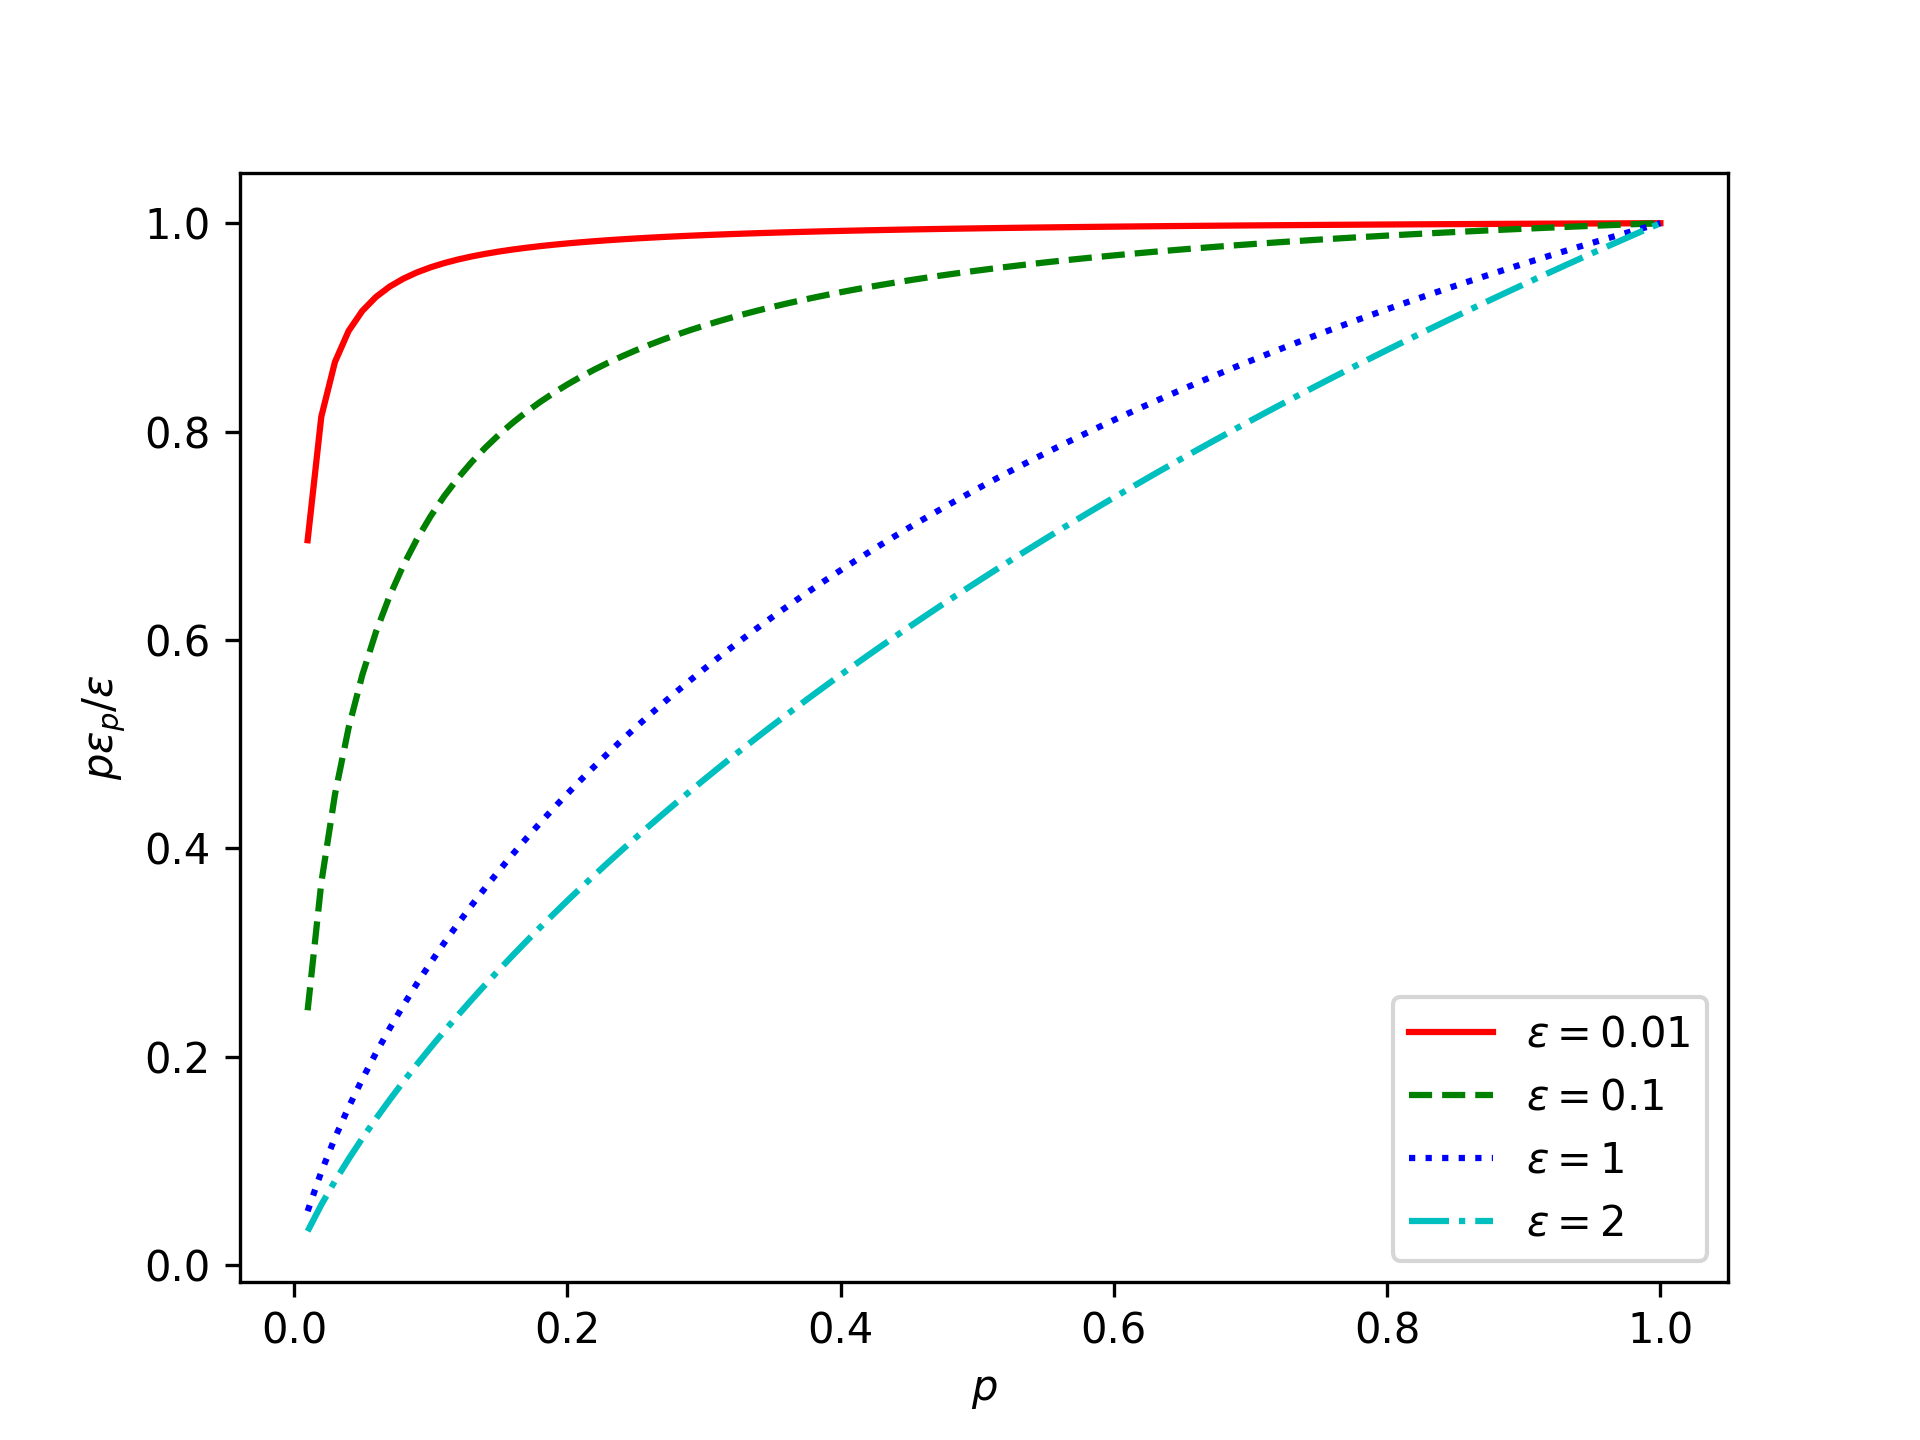
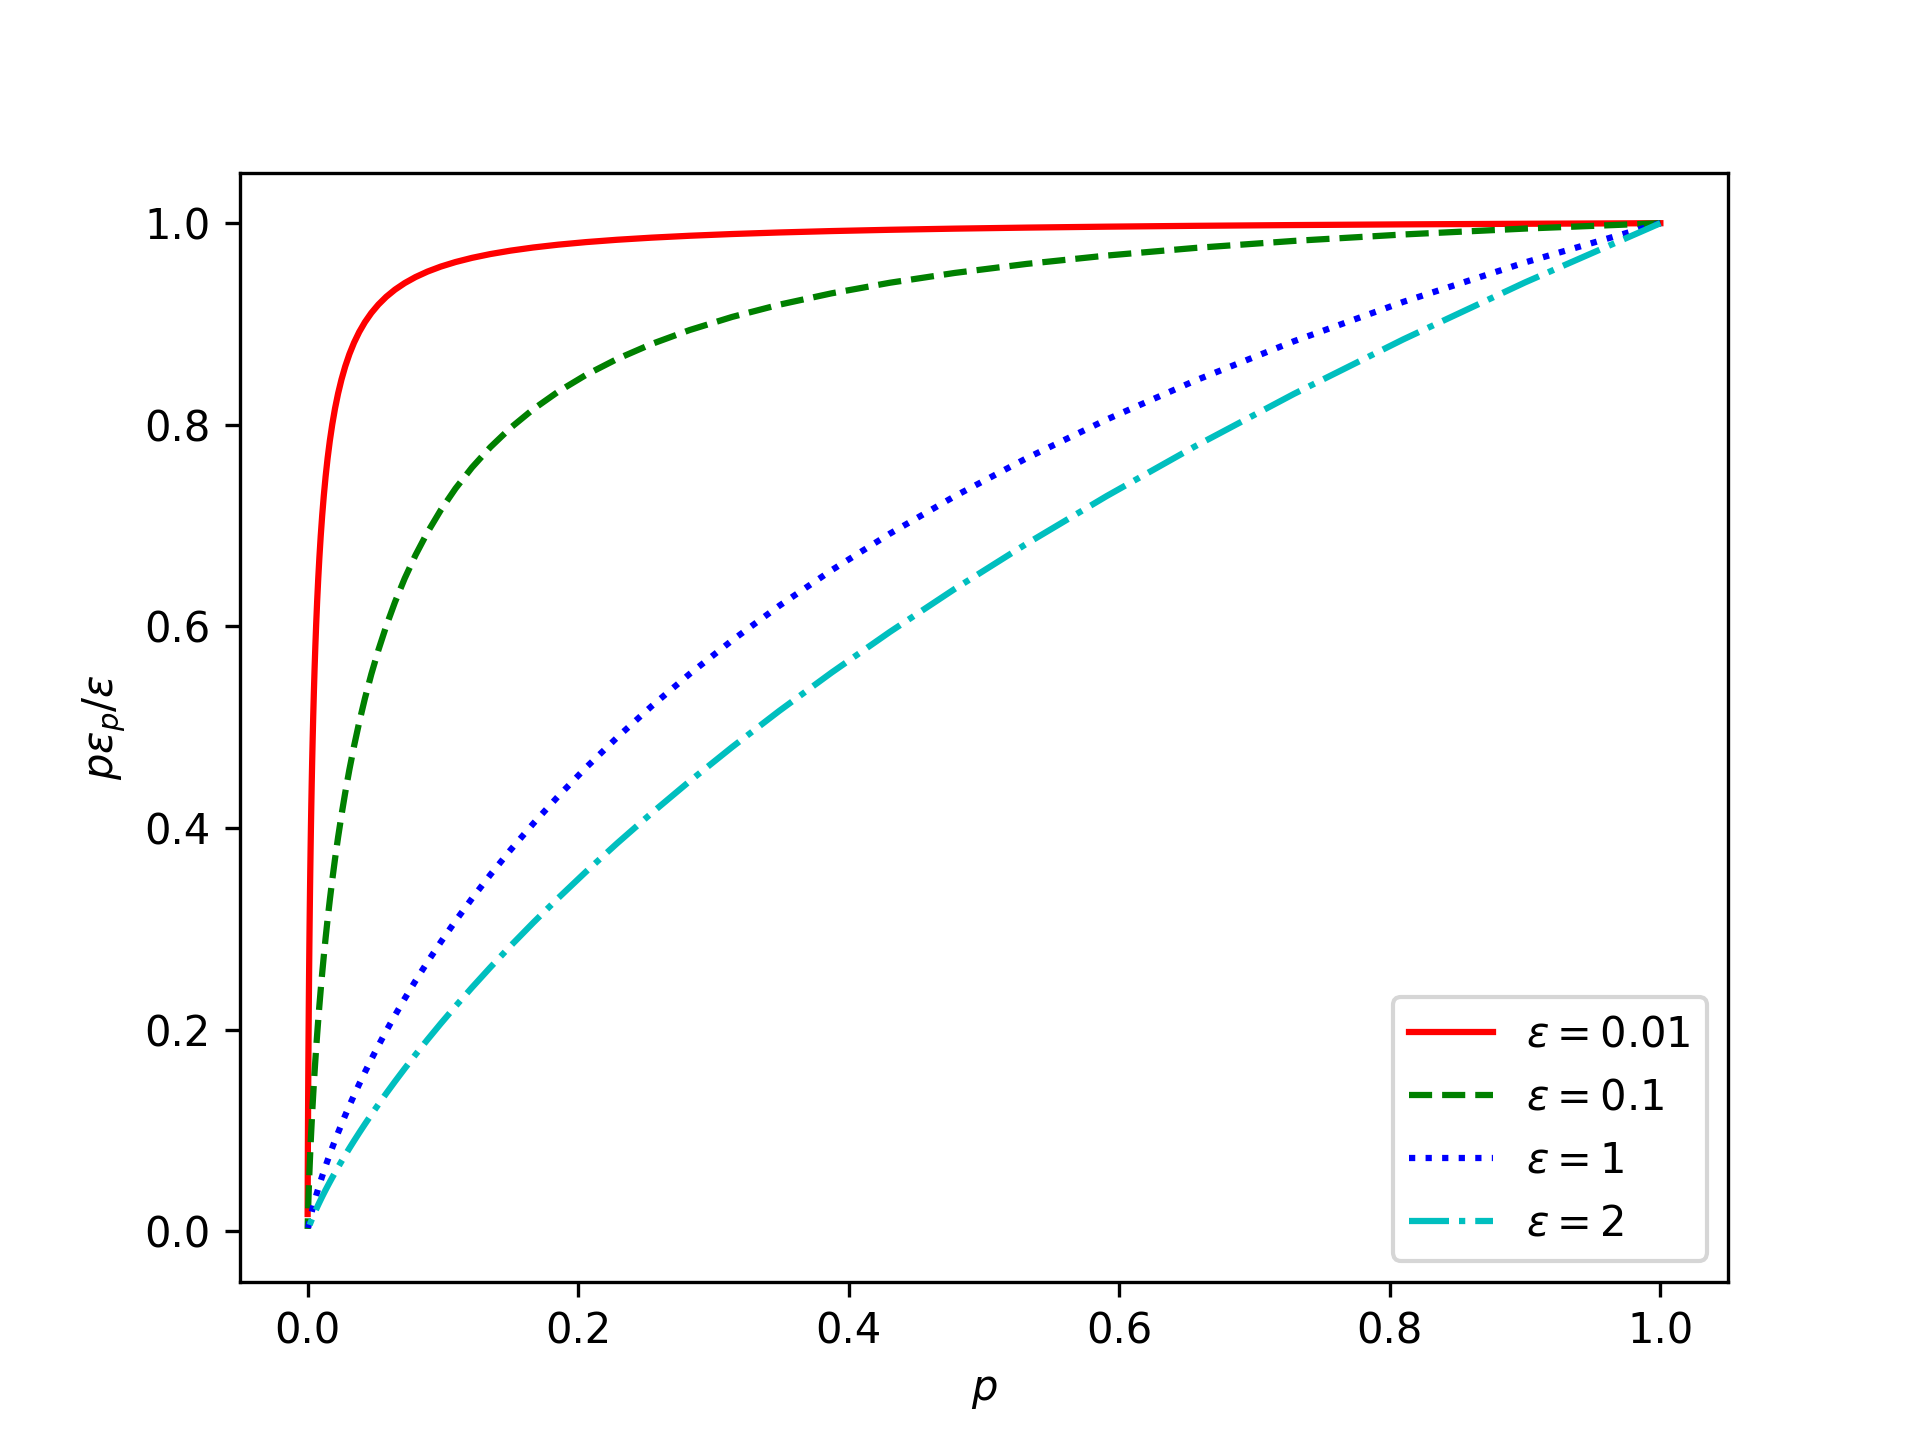
post on subsampling

diff --git a/_posts/2025-04-07-subsampling.md b/_posts/2025-04-07-subsampling.md
@@ -102,12 +102,17 @@ This adds a bit of complexity, but doesn't fundamentally alter the story; essent
 The story so far is pretty good. But let's take a closer look at the approximation we made in [Equation 6](#eq6):
 <a id="eq6prime" />\\\[\\varepsilon_p = \\log\\left\(1 + \\frac{1}{p} \\big\( e^{\\varepsilon}-1 \\big\)\\right\) \\approx \\frac{\\varepsilon}{p}. \\tag{6'} \\\]
 Specifically, we're interested in the scale of the Laplace noise: <a id="eq10" />\\\[\\frac{1}{\\varepsilon\_p p} = \\frac{1}{p\\log\\left\(1 + \\frac{1}{p} \\big\( e^{\\varepsilon}-1 \\big\)\\right\)} \\approx \\frac{1}{\\varepsilon}. \\tag{10} \\\]
-To get an idea of how good this approximation is, let's plot the ratio \\\(\\frac{p\\varepsilon\_p}{\\varepsilon} \\approx 1\\\):
-<p align="center"><img src="/images/subsampling-ratio-p.png" alt="Plot of p*eps\_p/eps as a function of p for eps=0.01,0.1,1,2"/></p> 
-<p align="center"><img src="/images/subsampling-ratio-eps.png" alt="Plot of p*eps\_p/eps as a function of eps for p=0.001,0.01,0.1,0.5"/></p> 
+To get an idea of how good this approximation is, let's plot the ratio \\\(\\frac{p\\varepsilon\_p}{\\varepsilon} = \\frac{p}{\\varepsilon} \\log\\left\(1 + \\frac{1}{p} \\big\( e^{\\varepsilon}-1 \\big\)\\right\) \\approx 1\\\):
+<p align="center"><img src="/images/subsampling-ratio-p.png" alt="Plot of p*eps\_p/eps as a function of p for eps=0.01,0.1,1,2" width="768" height="576"/></p> 
+<p align="center"><img src="/images/subsampling-ratio-eps.png" alt="Plot of p*eps\_p/eps as a function of eps for p=0.001,0.01,0.1,0.5"  width="768" height="576"/></p> 
 This doesn't look so good!
-The approximation we made in [Equation 6](#eq6) tells us that these lines should be close to 1.
-But this seems to only be accurate when \\\(p \\approx 1\\\) or \\\(\\varepsilon \\approx 0\\\).
+The approximation we made in [Equation 6](#eq6) tells us that all of the plotted lines should be close to 1.
+But this seems to only be accurate when \\\(p \\approx 1\\\) or when \\\(\\varepsilon\\\) is _very_ small.
+Large subsampling probability \\\(p\\\) doesn't make much sense for subsampling; we don't get much speedup. So the question is _how small does the privacy parameter \\\(\\varepsilon\\\) need to be?_
+
+Roughly, if we want the approximation in [Equation 6](#eq6) to be good within constant factors, then  the privacy parameter \\\(\\varepsilon\\\) needs to scale linearly with the subsampling probability \\\(p\\\). I.e., \\\(\\varepsilon=cp\\\) for a constant \\\(c\\\). Let's see what the ratio looks like for various constants:
+<p align="center"><img src="/images/subsampling-ratio-c.png" alt="Plot of p*eps\_p/eps as a function of p for eps=p*const where const=0.2,0.5,2,5"  width="768" height="576"/></p> 
+
  
 ---
 
